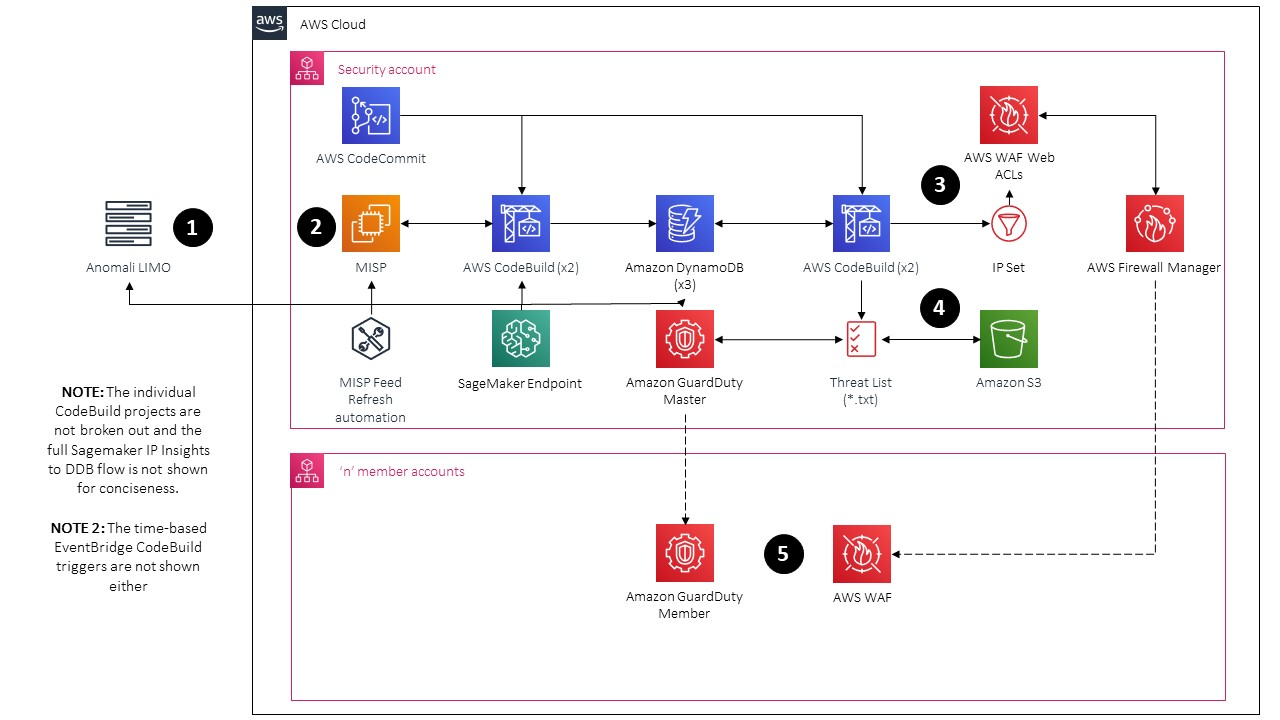
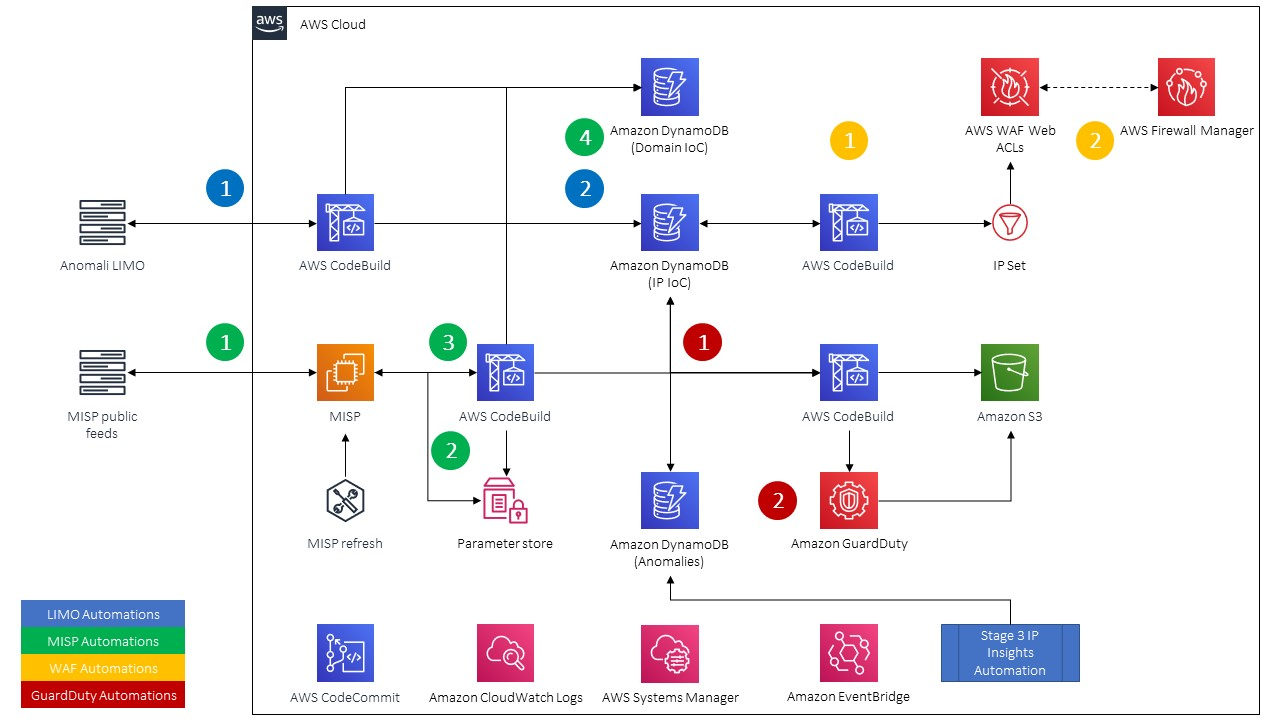
Revise build automation architecture and readme. Upload final Stage 1 arti.

diff --git a/readme-stage2/README.md b/readme-stage2/README.md
@@ -12,16 +12,25 @@ SyntheticSun is a proof of concept (POC) defense-in-depth security automation an
 In this Stage we will configure the MISP platform to bring in cyber threat intelligence and prepare it for export. We will also deploy all necessary services for the automation of edge protection and processing of cyber threat intelligence (CTI) indicators of compromise (IoCs). We'll go over the solutions architecture first, deployment instructions are below it.
 
 ### Solution Architecture
-As noted in the architecture diagram this is a generalized view of how the different services are deployed and some services are not shown. Sagemaker automation is explained in greater detail in the Phase 3 solution architecture, the IP Set and Threat Intel Set for the Anomaly-based IPv4 IoCs have placeholder values and will be overwritten by subsequent runs. 
-
-**Important note:** This solution architecture is assuming you will run it in the account where your [GuardDuty Delegated Admin](https://docs.aws.amazon.com/guardduty/latest/ug/guardduty_organizations.html) and [AWS Firewall Manager Administrator Account](https://docs.aws.amazon.com/waf/latest/developerguide/enable-integration.html) are designated if you are part of an AWS Organization.
+Below is the high level view of the four different build automation jobs that run. While no direct links are shown all four CodeBuild projects get their artifacts from a single CodeCommit repository. All builds are scheduled using time-based EventBridge events and all build logs are published to CloudWatch Logs.
 
 ![SyntheticSun Build Automation Architecture](https://github.com/jonrau1/SyntheticSun/blob/master/img/syntheticsun-buildautomation-diagram.jpg)
-1. The first CodeBuild project uses various Python libaries to parse CTI IoC's from [Anomali's LIMO feed](https://www.anomali.com/community/limo) for selected threat intelligence feeds. Anomali calls these threat intelligence feeds Collections. IoCs are converted from XML to JSON before being loaded into DynamoDB. This project runs every 4 hours.
-2. The second CodeBuild project uses the Python `requests` libary and [MISP's built-in API](https://www.circl.lu/doc/misp/automation/) to parse threat intelligence feeds you will setup in this Section. The feeds are already in JSON and just need to be parsed for selected keys and loaded into DynamoDB. This project runs every 4 hours.
-3. The thrid CodeBuild project runs a `Scan` against the IP-IoC table, grabs the latest 10,000 IP IoC's and writes them into their respective WAF IP Sets, overwriting all older values. This project runs every 6 days.
-4. The fourth and final CodeBuild project runs a `Scan` against both the IP-IoC and Anomaly tables, grabs the latest 250,000 IP IoC's and uploads new plaintext files into an S3 bucket before calling the GuardDuty `UpdateThreatIntelSet` API. This project runs every 6 days.
-5. The GuardDuty Master will propogate the threat intel sets to all member accounts, if configured, Firewall Manager propogates the new IP Sets to managed Web ACLs in member accounts for WAFv2.
+##### LIMO Automations
+1. CodeBuild uses various Python libaries to parse IoC's from [Anomali's LIMO feed](https://www.anomali.com/community/limo)by collections. IoCs are returned in [STIX](https://stixproject.github.io/about/) XML.
+2. STIX XML is converted to JSON, parsed and normalized before being written into DynamoDB. This project runs every 4 hours.
+##### MISP Automations
+1. [MISP](https://www.misp-project.org/) continually pulls and publishes events from a variety of public CTI feeds. Native jobs are used to schedule the pull and refresh of feeds and corresponding events.
+2. CodeBuild retrieves the MISP automation API key from Systems Manager [Parameter Store](https://docs.aws.amazon.com/systems-manager/latest/userguide/parameter-store-about-examples.html#parameter-types) (SecureString).
+3. CodeBuild uses [MISP's built-in API](https://www.circl.lu/doc/misp/automation/) to perform tag-based pulls on the feeds, the response is in JSON which is simply looped through to normalize the IoCs.
+4. The parsed and normalized CTI is written into a corresponding DynamoDB table. This project runs every 4 hours.
+##### WAF Automations
+1. CodeBuild runs a `Scan` against the IP-based DynamoDB table, grabs the latest 10,000 IP IoC's and writes them into their respective WAF [IP Sets](https://docs.aws.amazon.com/waf/latest/APIReference/API_IPSet.html), overwriting all older values. This project runs every 6 days.
+2. (**Optional**) Firewall Manager can be used to mandate a desired state for a WAFv2 Web ACL using [AMRs](https://aws.amazon.com/blogs/aws/announcing-aws-managed-rules-for-aws-waf/) and this automated IP Set based on CTI.
+##### GuardDuty Automations
+1. CodeBuild runs a `Scan` against the IP and Anomaly (feed in another workflow) DynamoDB tables. The latest IP addresses are written in text files and uploaded to S3. Threat intel sets for GuardDuty support up to 6 sets with 250,000 IP's each.
+2. CodeBuild calls the `UpdateThreatIntelSet` API which instructs GuardDuty to retrieve and activate the latest text files. This project runs every 6 days.
+
+**Important note:** This solution architecture is assuming you will run it in the account where your [GuardDuty Delegated Admin](https://docs.aws.amazon.com/guardduty/latest/ug/guardduty_organizations.html) and [AWS Firewall Manager Administrator Account](https://docs.aws.amazon.com/waf/latest/developerguide/enable-integration.html) are designated if you are part of an AWS Organization.
 
 ### Deployment instructions
 1. Log in to the MISP server deployed in Phase 1. Refer to the public IP address in the EC2 console, you will likely get an untrusted X.509 cert warning in your browser, the default login credentials are `admin@admin.test` and the password is `admin`. Refer to the [MISP-Cloud project](https://github.com/MISP/misp-cloud#credentials--access) in case this value or the AMI changes. **Note** if you have trouble reaching the sign-in page attempt to add `/users/login` to the end of the IP address / hostname.
@@ -61,10 +70,9 @@ As noted in the architecture diagram this is a generalized view of how the diffe
 9. Finally, navigate to **Administration >> Scheduled Tasks**. Select the **Frequency (h)** row by double-clicking and enter a `4` for **fetch_feeds** and **pull_all** as shown below. This will allow MISP to continuously update the feeds to pull the latest events which will be published and available to DynamoDB.
 ![MISP Scheduled Tasks](https://github.com/jonrau1/SyntheticSun/blob/master/img/syntheticsun-misp-scheduledtasks.JPG)
 
-10. Deploy a CloudFormation stack from `SyntheticSun_BUILD_AUTOMATION_CFN.yaml`. This should not take too long, ensure that you are running this in your GuardDuty Master account if you are part of an AWS Organization.
+10. Deploy a CloudFormation stack from `SyntheticSun_BUILD_AUTOMATION_CFN.yaml`. This should not take too long, ensure that you are running this in your GuardDuty Master account if you are part of an AWS Organization. Ensure you run at least the MISP project after deployment before moving onto Stage 3.
 
-
-**[Phase 3 starts here](https://github.com/jonrau1/SyntheticSun/tree/master/readme-stage3)**
+**[Stage 3 starts here](https://github.com/jonrau1/SyntheticSun/tree/master/readme-stage3)**
 
 ## FAQ
 

diff --git a/readme-stage1/README.md b/readme-stage1/README.md
@@ -80,4 +80,4 @@ aws ssm send-command \
 
 This is the end of Stage 1 for SyntheticSun. Before moving onto Stage 2 confirm that Suricata logs are being published to CloudWatch by navigating to the CloudWatch Logs console and looking at either `Suricata-DNS-Logs` or `Suricata-Not-DNS-Logs` log groups. If logs are not being published verify that the CloudWatch Agent is running by using the `AmazonCloudWatch-ManageAgent` document in `status` mode and looking for Suricata publishing logs by navigating to `/var/logs/suricata` and verifying that both `eve-dns.json` and `eve-nsm.json` are created and streaming by using `tail -f`.
 
-**[Phase 2 starts here](https://github.com/jonrau1/SyntheticSun/tree/master/readme-stage2)**
+**[Stage 2 starts here](https://github.com/jonrau1/SyntheticSun/tree/master/readme-stage2)**

diff --git a/README.md b/README.md
@@ -39,7 +39,7 @@ SyntheticSun, by virtue of being something you found on GitHub, is a proof-of-co
 - CloudTrail logging enabled in your account
 - One VPC with at least 1 private subnet (route to NATGW), 1 public subnet (route to IGW) and VPC Flow Logs enabled and published to CloudWatch Logs
 
-**[Phase 1 starts here](https://github.com/jonrau1/SyntheticSun/tree/master/readme-stage1)**
+**[Stage 1 starts here](https://github.com/jonrau1/SyntheticSun/tree/master/readme-stage1)**
 
 ## FAQ
 #### 1. Why should I use this solution?
